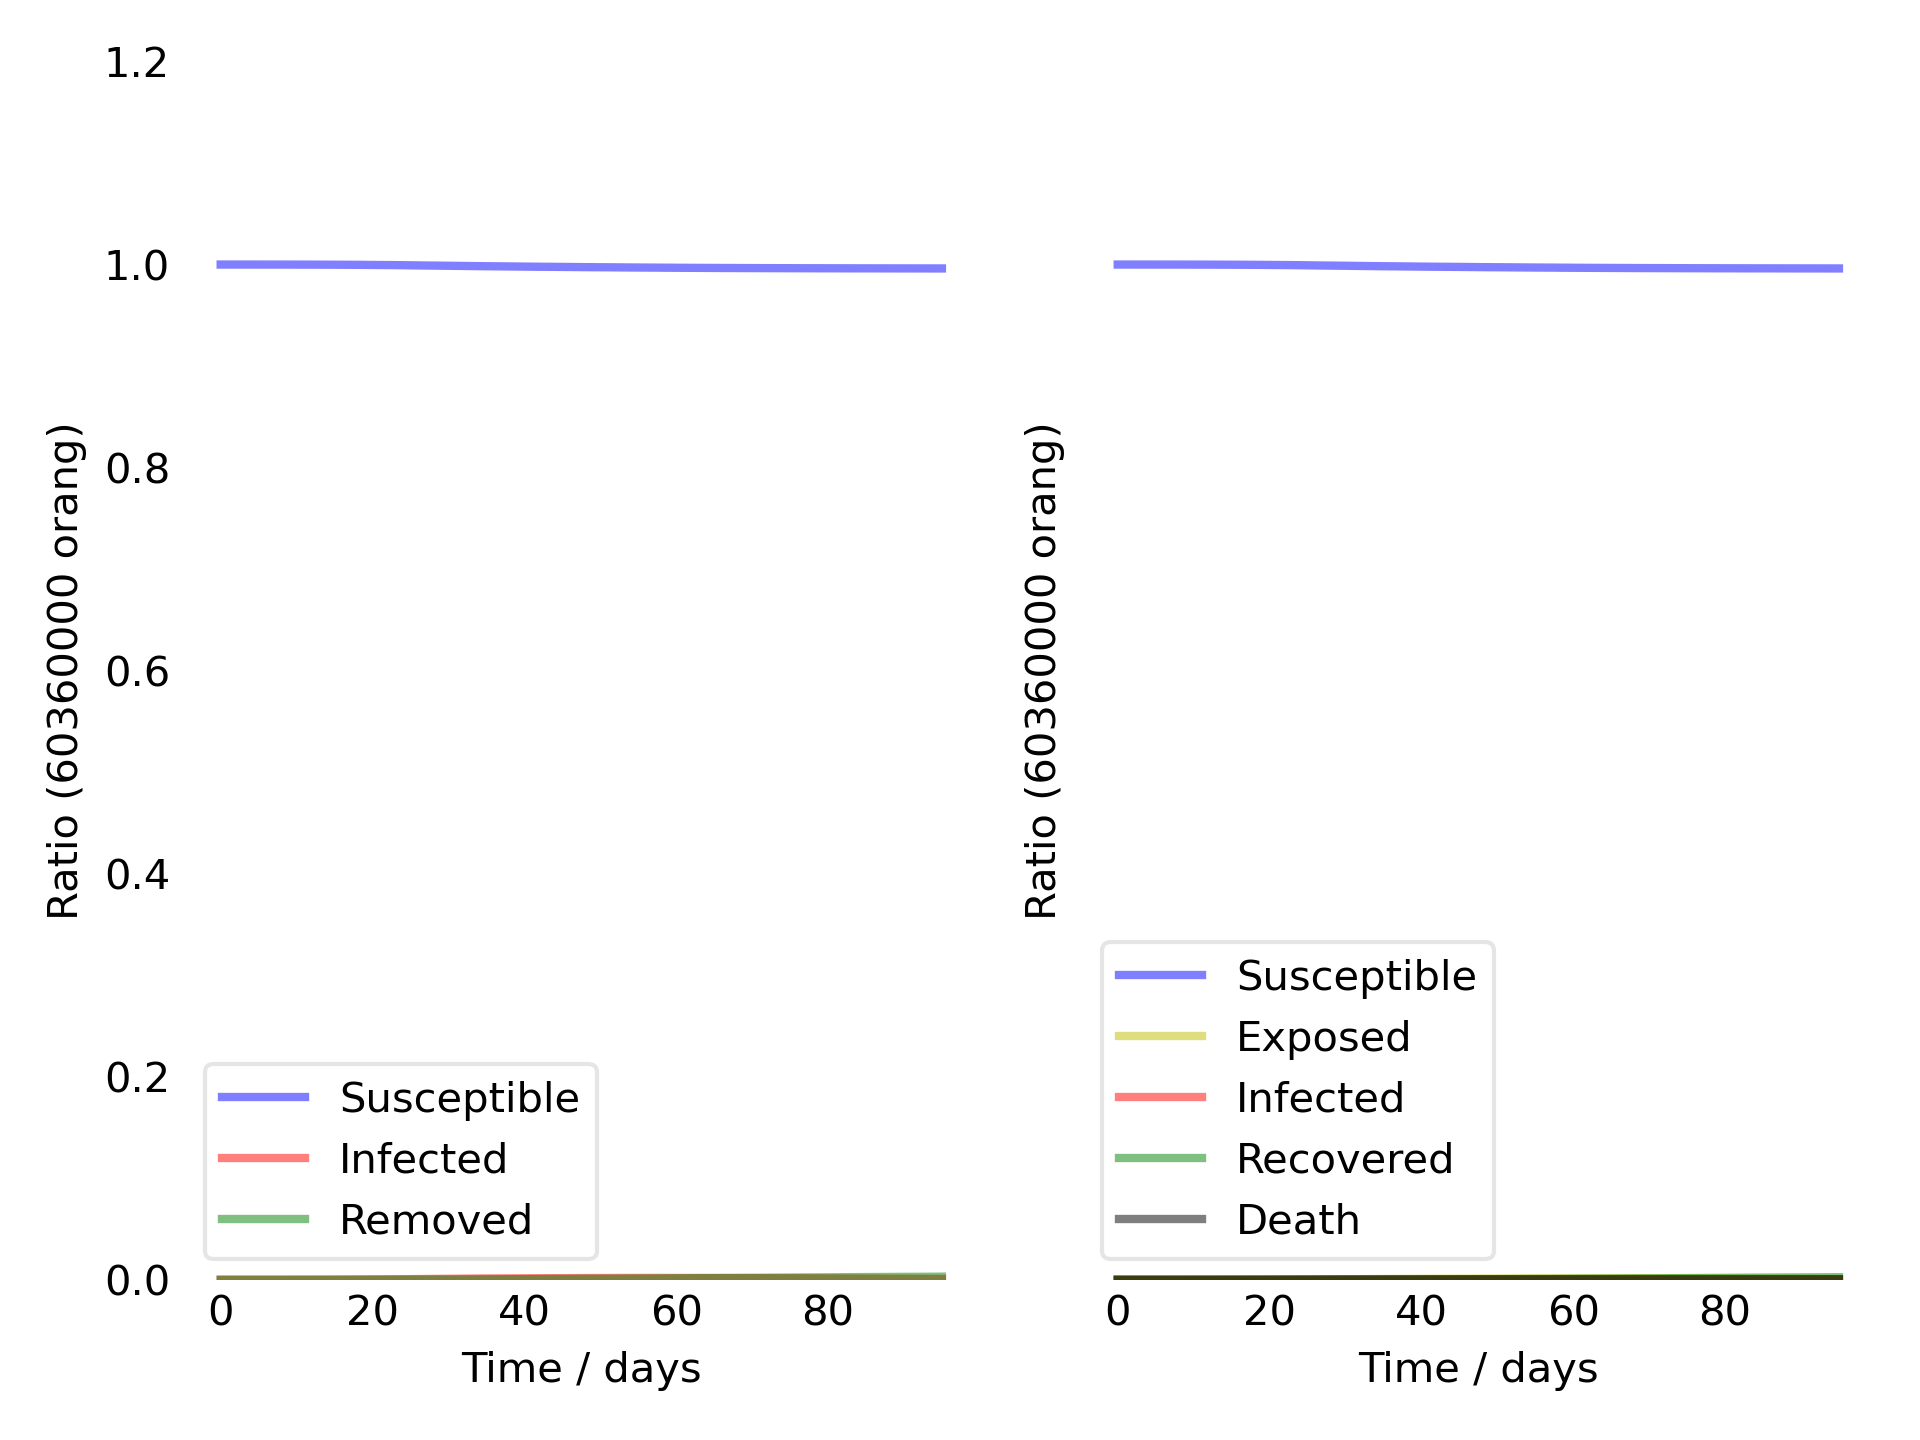
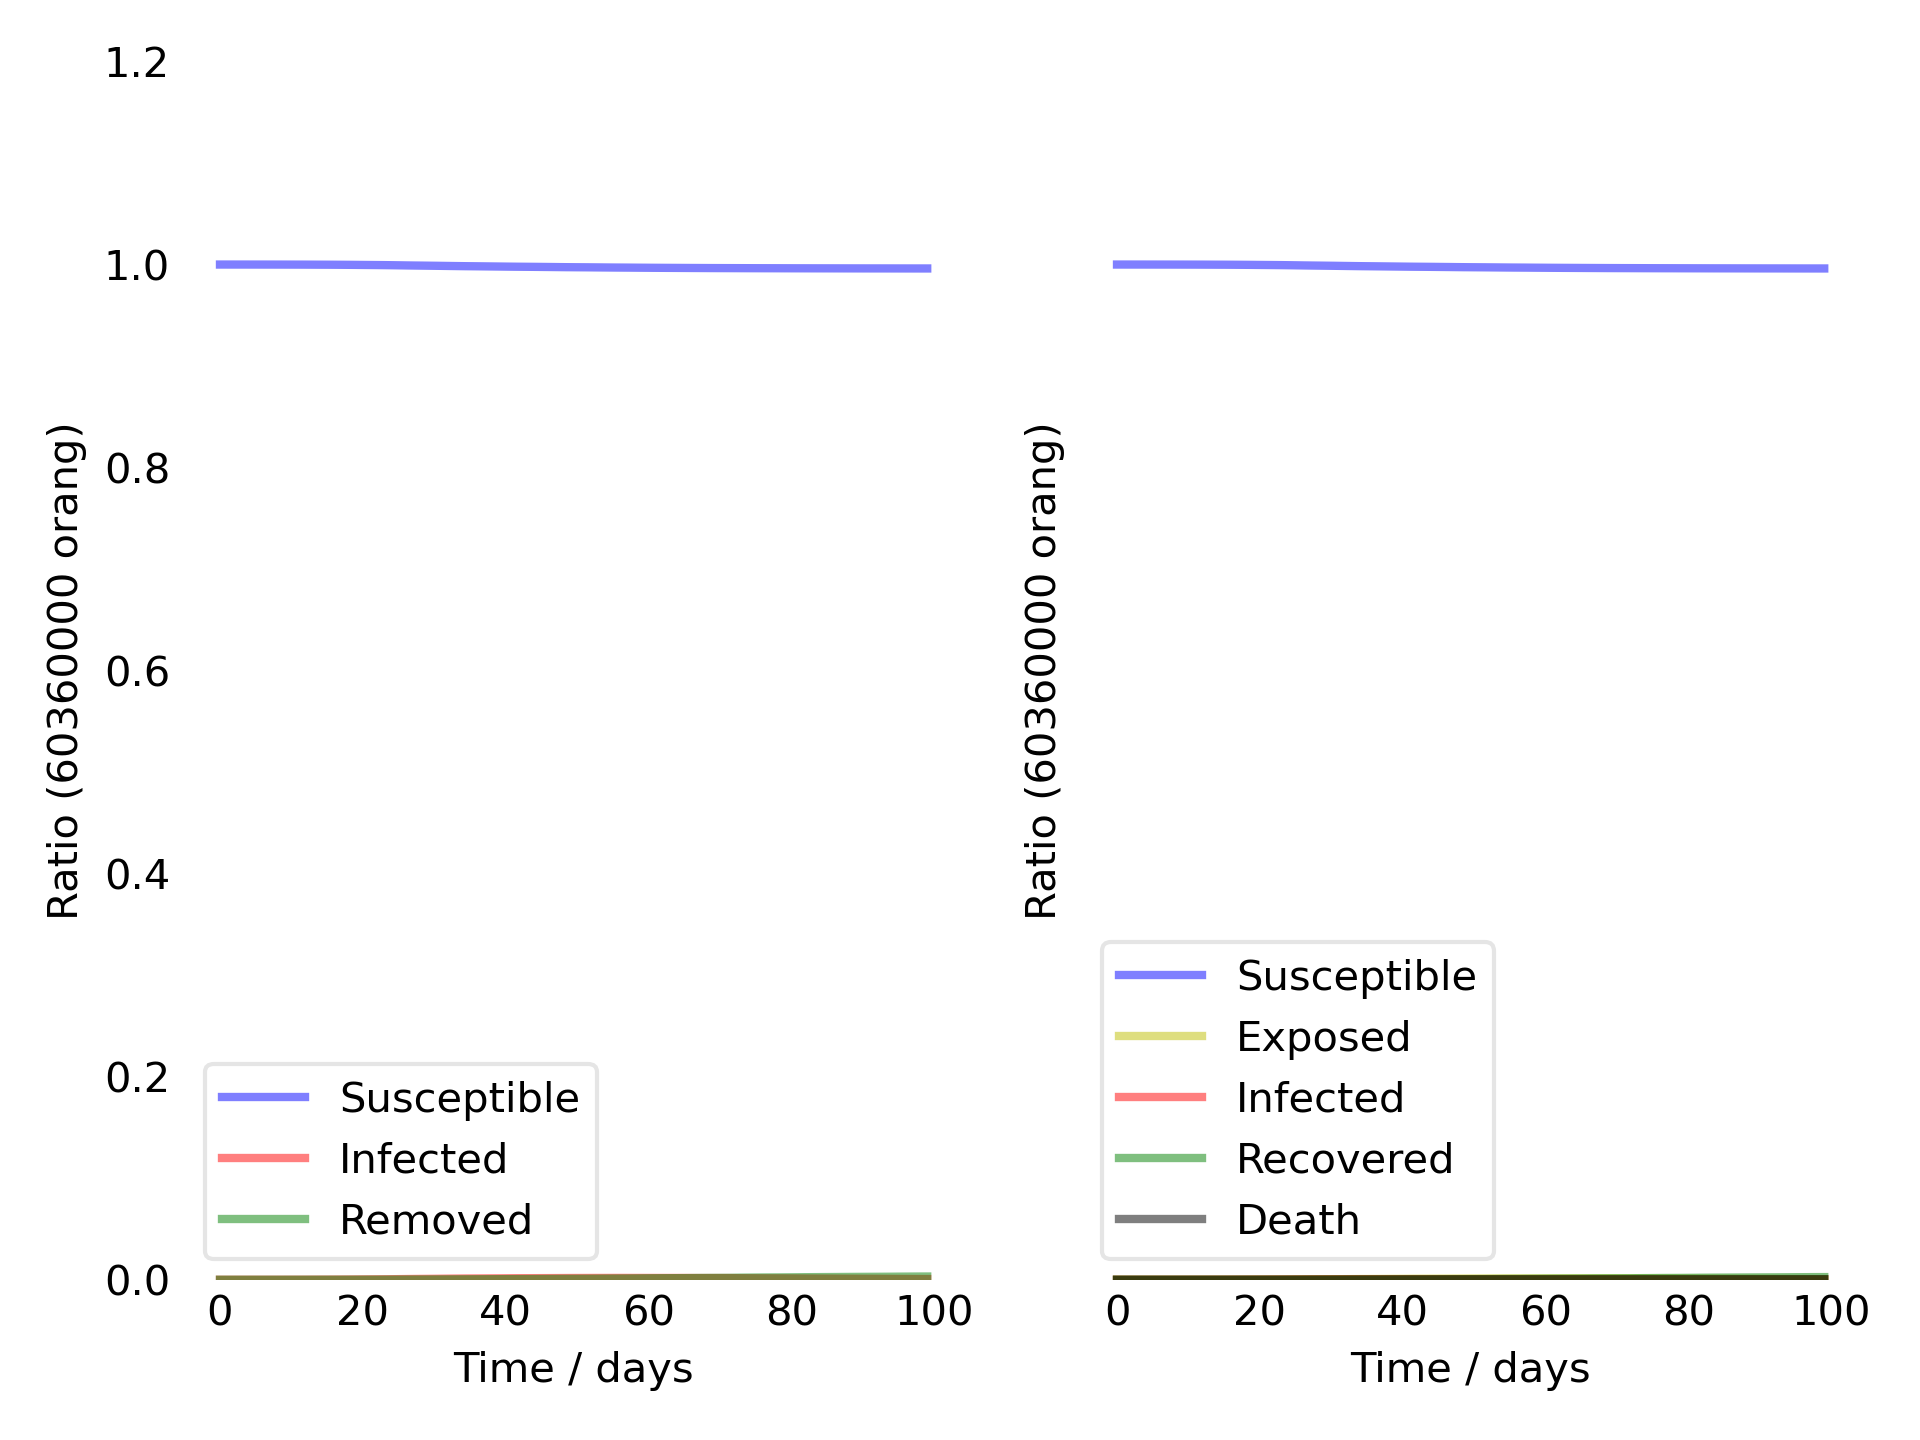
latest update

diff --git a/runner.py b/runner.py
@@ -125,7 +125,7 @@ def simulation(
             incubationTime=constant.INCUBATION_TIME,
             timeBeforeDeath=constant.TIME_BEFORE_DEATH,
             time=days,
-            timestep=constant.TIMESTEP,
+            timestep=days if days is not None else constant.TIMESTEP,
             funcRo=R if R is not None else lambda x: constant.RO,
             probabilityAge=probabilityAge if probabilityAge is not None else None,
             proportionAge=proportionAge if proportionAge is not None else None,
@@ -181,7 +181,7 @@ if __name__ == '__main__':
     pandemi
     """
     def R(t):
-        return 4.5 / (1 + np.exp(-0.5*(-t+50))) + 0.5
+        return 10 if t < constant.START_LOCKDOWN else 3
     """
     Jalankan Simulasi Model yang dipilih
     dan ambil model simulasi nya
@@ -194,7 +194,8 @@ if __name__ == '__main__':
     seird = simulation(
         which='seird',
         probabilityAge=probAge,
-        proportionAge=propAge
+        proportionAge=propAge,
+        R=R
     )
     seird.debug()
 

diff --git a/constant/__init__.py b/constant/__init__.py
@@ -106,7 +106,7 @@ Nilai ini bisa digunakan untuk mengubah
 fungsi Ro (berapa banyak orang yang bisa 
 diinfeksi oleh orang yang terinfeksi) 
 """
-START_LOCKDOWN = 1
+START_LOCKDOWN = 60
 
 """
 Dari rata-rata, biasanya orang yang memiliki
